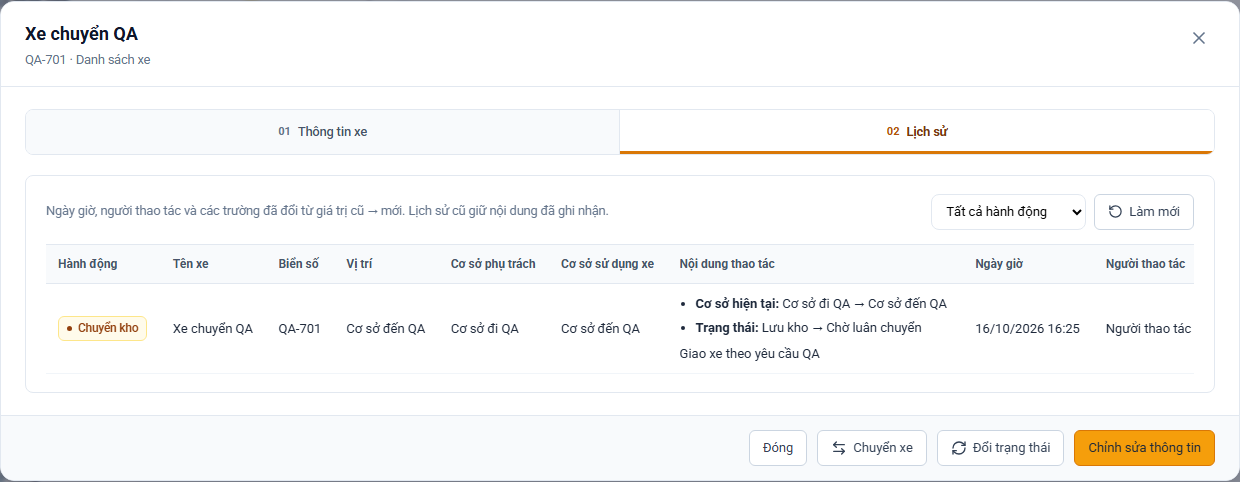
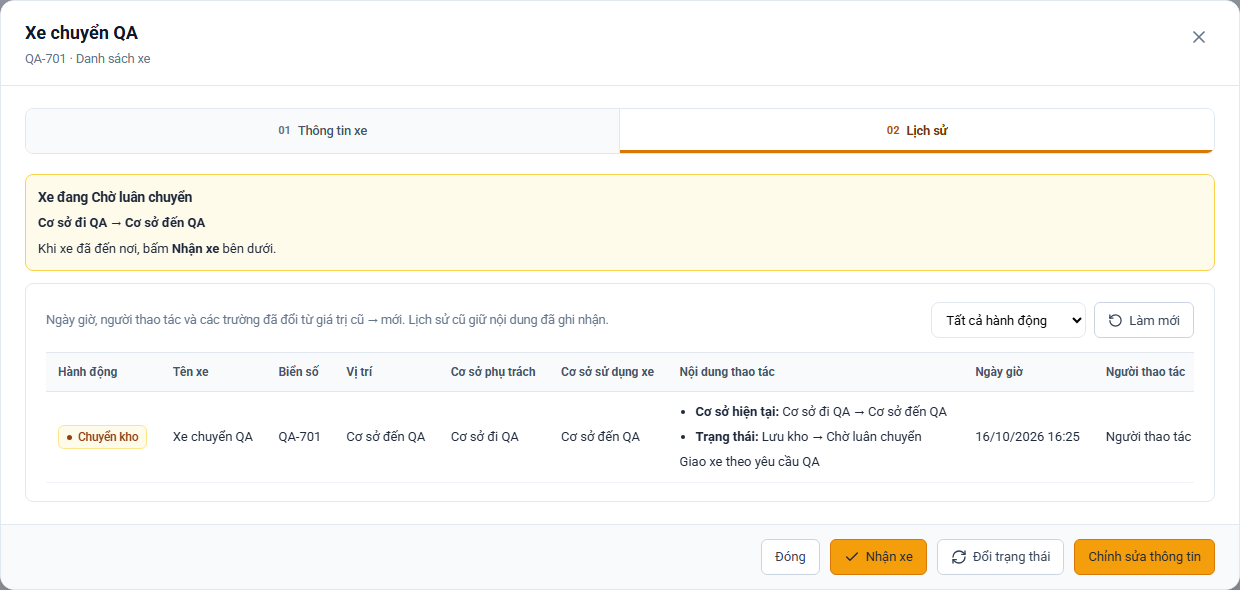
feat: add explicit vehicle receipt and transfer directions

diff --git a/src/components/management/VehicleActionDialog.tsx b/src/components/management/VehicleActionDialog.tsx
@@ -9,8 +9,9 @@ import { applyVehicleAction, loadSessionUserName, VehicleActionResult } from '@/
 import { formatDateTime } from '@/lib/formatters';
 import { Dialog } from './Dialog';
 import { useManagement } from './ManagementProvider';
+import { vehicleTransferRoute } from '@/lib/management/vehicle-history';
 
-export type VehicleActionMode = 'transfer' | 'status';
+export type VehicleActionMode = 'transfer' | 'status' | 'receive';
 const STATUS_CHOICES = [{ value: 'using', label: 'Đang thuê' }, { value: 'ready', label: 'Lưu kho' }] as const;
 const vehicleOption = (row: ManagementRow) => `${row.license || row.code} — ${row.name}`;
 
@@ -47,12 +48,14 @@ export function VehicleActionDialog({ mode, vehicle, onClose }: { mode: VehicleA
   }
   const rented = (() => { try { return JSON.parse(String(selected?.rentals_json || '[]')).length > 0; } catch { return false; } })();
   const transferBlocked = mode === 'transfer' && Boolean(selected) && currentStatus !== 'ready';
-  const title = mode === 'transfer' ? 'Chuyển xe' : 'Đổi trạng thái';
+  const receiveBlocked=mode==='receive' && (!selected||currentStatus!=='in_transit'||!selected.transfer_event_id||selected.transfer_receivable===0);
+  const title = mode === 'transfer' ? 'Chuyển xe' : mode==='receive'?'Nhận xe':'Đổi trạng thái';
 
   async function submit(event: FormEvent) {
     event.preventDefault(); if (busy.current) return;
     if (!selected) return setError('Chọn xe cần thao tác.');
     if (transferBlocked) return setError('Chỉ chuyển xe đang Lưu kho. Kiểm tra trạng thái xe rồi thao tác lại.');
+    if(receiveBlocked)return setError('Không xác định được lần chuyển xe đang chờ nhận. Nhấn Làm mới rồi kiểm tra lịch sử.');
     if (mode === 'transfer' && !storeId) return setError('Chọn cơ sở chuyển đến.');
     if (mode === 'transfer' && storeId === String(selected.store_id)) return setError('Xe đang ở cơ sở này. Chọn cơ sở khác.');
     if (mode === 'status' && status !== 'ready' && status !== 'using') return setError('Chọn trạng thái Đang thuê hoặc Lưu kho.');
@@ -63,9 +66,10 @@ export function VehicleActionDialog({ mode, vehicle, onClose }: { mode: VehicleA
     try {
       const revision=selected.vehicle_revision ? String(selected.vehicle_revision) : undefined;
       const saved = await applyVehicleAction(selected.id, mode === 'transfer' ? { action: 'transfer', to_store_id: storeId, note, revision }
+        : mode==='receive'?{action:'receive',transfer_event_id:String(selected.transfer_event_id),note,revision}
         : { action: 'status', status: status as 'ready' | 'using', beneficiary_store_id: storeId, customer_name: customer.name, customer_phone: customer.phone, customer_id_card: customer.idCard, note, revision });
-      await ensureData(saved.customer ? ['vehicles', 'customers', 'contracts'] : ['vehicles'], true).catch(() => {});
-      notify(mode === 'transfer' ? `Xe ${selected.license} chuyển sang Chờ luân chuyển tại ${stores.find(store=>String(store.id)===storeId)?.name || 'cơ sở đích'}. Đã lưu lịch sử.` : `Đã đổi trạng thái xe ${selected.license}.`);
+      await ensureData(saved.customer ? ['vehicles', 'customers', 'contracts'] : mode==='transfer'||mode==='receive'?['vehicles','stores']:['vehicles'], true).catch(() => {});
+      notify(mode === 'transfer' ? `Xe ${selected.license} chuyển sang Chờ luân chuyển tại ${stores.find(store=>String(store.id)===storeId)?.name || 'cơ sở đích'}. Đã lưu lịch sử.` : mode==='receive'?`Đã nhận xe ${selected.license} tại ${selected.transfer_to_store_name||selected.store_name}. Xe chuyển sang Lưu kho. Đã lưu lịch sử.`:`Đã đổi trạng thái xe ${selected.license}.`);
       if (saved.draft) setResult(saved); else onClose();
     } catch (cause) { setError(cause instanceof Error ? cause.message : 'Không lưu được thao tác xe.'); }
     finally { busy.current = false; setSaving(false); }
@@ -91,12 +95,18 @@ export function VehicleActionDialog({ mode, vehicle, onClose }: { mode: VehicleA
         {selected && <small>Hiện tại: {optionLabel(MANAGEMENT_CONFIG.vehicles, 'status', currentStatus)} · {String(selected.store_name || '—')}</small>}
         {rented && <small className="mg-field-error">Xe đang thuộc hợp đồng mở. Trả xe trên hợp đồng trước khi {mode === 'transfer' ? 'chuyển xe' : 'đổi trạng thái'}.</small>}
         {transferBlocked && !rented && <small className="mg-field-error">Chỉ chuyển xe đang Lưu kho.</small>}</div>
-      {mode === 'transfer' ? <>
+      {mode==='receive'?<>
+        <p className="mg-transfer-direction mg-field-wide">{selected?vehicleTransferRoute(selected):''}</p>
+        <div className="mg-field"><label htmlFor="vehicle-receive-from">Cơ sở chuyển đi</label><input id="vehicle-receive-from" value={String(selected?.transfer_from_store_name||'')} readOnly disabled/></div>
+        <div className="mg-field"><label htmlFor="vehicle-receive-to">Cơ sở nhận xe</label><input id="vehicle-receive-to" value={String(selected?.transfer_to_store_name||selected?.store_name||'')} readOnly disabled/></div>
+        <p className="mg-composer-hint mg-field-wide">Chỉ xác nhận khi xe đã đến cơ sở nhận. Xe chuyển từ Chờ luân chuyển sang Lưu kho; ngày giờ và người nhận được lưu trong Lịch sử.</p>
+        {receiveBlocked&&<p className="mg-field-error mg-field-wide" role="alert">Lần chuyển xe không còn chờ nhận hoặc thiếu thông tin. Đóng hộp thoại, nhấn Làm mới rồi kiểm tra lịch sử.</p>}
+      </>:mode === 'transfer' ? <>
         <div className="mg-field"><label htmlFor="vehicle-action-from">Cơ sở hiện tại</label><input id="vehicle-action-from" value={String(selected?.store_name || '')} readOnly disabled /></div>
         <div className="mg-field"><label htmlFor="vehicle-action-to">Chuyển đến cơ sở<span aria-hidden="true"> *</span></label>
           <select id="vehicle-action-to" value={storeId} disabled={saving} onChange={event => setStoreId(event.target.value)}>
             <option value="">Chọn cơ sở</option>{stores.filter(store => String(store.id) !== String(selected?.store_id)).map(store => <option key={store.id} value={String(store.id)}>{store.name}</option>)}</select></div>
-        <p className="mg-composer-hint mg-field-wide">Khi lưu, xe chuyển sang Chờ luân chuyển tại cơ sở đích. Khi nhận xe, dùng Đổi trạng thái → Lưu kho. Mỗi thao tác đều được ghi vào Lịch sử.</p>
+        <p className="mg-composer-hint mg-field-wide">Khi lưu, xe chuyển sang Chờ luân chuyển tại cơ sở đích. Khi xe đến nơi, bấm Nhận xe để xác nhận. Mỗi thao tác đều được ghi vào Lịch sử.</p>
       </> : <>
         <div className="mg-field"><label htmlFor="vehicle-action-status">Trạng thái<span aria-hidden="true"> *</span></label>
           <select id="vehicle-action-status" value={status} disabled={saving || !selected} onChange={event => setStatus(event.target.value)}>
@@ -118,7 +128,7 @@ export function VehicleActionDialog({ mode, vehicle, onClose }: { mode: VehicleA
         <textarea id="vehicle-action-note" value={note} maxLength={500} disabled={saving} onChange={event => setNote(event.target.value)} /></div>
     </div>{error && <p className="mg-error-message" role="alert">{error}</p>}</div>
       <div className="mg-dialog-footer"><span className="mg-form-note">Ngày giờ và người nhập được ghi tự động khi lưu.</span><button type="button" className="mg-button" disabled={saving} onClick={onClose}>Hủy</button>
-        <button type="submit" className="mg-button mg-button-primary" disabled={saving || !selected || rented || transferBlocked}>{saving ? <LoaderCircle size={16} className="mg-spin" /> : <Check size={16} />}{saving ? 'Đang lưu…' : title}</button></div>
+        <button type="submit" className="mg-button mg-button-primary" disabled={saving || !selected || rented || transferBlocked || receiveBlocked}>{saving ? <LoaderCircle size={16} className="mg-spin" /> : <Check size={16} />}{saving ? 'Đang lưu…' : mode==='receive'?'Xác nhận đã nhận xe':title}</button></div>
     </form>
   </Dialog>;
 }

diff --git a/src/lib/server/vehicle-actions.ts b/src/lib/server/vehicle-actions.ts
@@ -5,6 +5,7 @@ import { createContractDraft, customerDetails, vehicleDetails } from '@/lib/mana
 import type { ManagementRow } from '@/lib/management/types';
 import { saveDatabaseDraft } from './contract-drafts';
 import { vehicleRevision, writeVehicleAudit } from './vehicle-audit';
+import { readPendingVehicleTransfer } from './vehicle-transfers';
 
 type Client = Pick<PoolClient, 'query'>;
 export interface VehicleActionCustomer { id: number; name: string; created: boolean; matched_by: string }
@@ -12,6 +13,7 @@ export interface VehicleActionResult { id: number; event_id: number; customer?: 
 export class VehicleActionError extends Error { constructor(message: string, public status = 400) { super(message); } }
 export type VehicleActionInput = (
   | { action: 'transfer'; to_store_id: number; note: string }
+  | { action: 'receive'; transfer_event_id: number; note: string }
   | { action: 'status'; status: 'ready' | 'using'; beneficiary_store_id: number; customer_name: string; customer_phone: string; customer_id_card: string; note: string }) & { revision?: string };
 
 const text = (value: unknown, label: string, max: number) => {
@@ -32,6 +34,7 @@ export function parseVehicleAction(body: unknown): VehicleActionInput {
   let revision: string | undefined;
   try { revision = vehicleRevision(raw.revision); } catch { throw new VehicleActionError('Phiên bản thông tin xe không hợp lệ.'); }
   const note = text(raw.note, 'Ghi chú', 500);
+  if (raw.action === 'receive') return {action:'receive',transfer_event_id:storeId(raw.transfer_event_id,'lần chuyển xe cần nhận'),note,...(revision?{revision}:{})};
   if (raw.action === 'transfer') return { action: 'transfer', to_store_id: storeId(raw.to_store_id, 'cơ sở chuyển đến'), note, ...(revision ? {revision} : {}) };
   if (raw.action !== 'status') throw new VehicleActionError('Thao tác không hợp lệ.');
   if (raw.status !== 'ready' && raw.status !== 'using') throw new VehicleActionError('Chọn trạng thái Đang thuê hoặc Lưu kho.');
@@ -94,7 +97,19 @@ export async function applyVehicleAction(client: PoolClient, vehicleId: number, 
     FROM himoto.order_vehicle_details d JOIN himoto.orders o ON o.id=d.order_id
     WHERE d.vehicle_id=$1 AND d.deleted_at IS NULL AND d.completed_at IS NULL AND o.deleted_at IS NULL
       AND o.order_status IN ('renting','overdue','wait_payment','pending','deposit_contract') LIMIT 1`, [vehicleId]);
-  if (open.rowCount) throw new VehicleActionError(`Xe đang thuộc hợp đồng ${open.rows[0].code}. Trả xe trên hợp đồng trước khi ${input.action === 'transfer' ? 'chuyển xe' : 'đổi trạng thái'}.`, 409);
+  if (open.rowCount) throw new VehicleActionError(`Xe đang thuộc hợp đồng ${open.rows[0].code}. Trả xe trên hợp đồng trước khi ${input.action === 'transfer' ? 'chuyển xe' : input.action==='receive'?'nhận xe':'đổi trạng thái'}.`, 409);
+  if(input.action==='receive') {
+    if(vehicle.status!=='in_transit')throw new VehicleActionError('Xe không còn Chờ luân chuyển hoặc đã được nhận. Nhấn Làm mới để kiểm tra.',409);
+    const transfer=await readPendingVehicleTransfer(client,vehicleId);
+    if(!transfer||Number(transfer.id)!==input.transfer_event_id||Number(transfer.to_store_id)!==Number(vehicle.store_id))throw new VehicleActionError('Lần chuyển xe đã thay đổi hoặc không khớp cơ sở hiện tại. Nhấn Làm mới rồi kiểm tra lịch sử.',409);
+    if(!Number(transfer.receivable))throw new VehicleActionError('Lần chuyển xe này đã được nhận hoặc thuộc phiếu điều chuyển của hệ thống cũ. Kiểm tra lại lịch sử.',409);
+    if(!(await client.query('SELECT id FROM himoto.stores WHERE id=$1 FOR SHARE',[vehicle.store_id])).rowCount)throw new VehicleActionError('Cơ sở nhận xe không còn tồn tại. Kiểm tra lại trước khi nhận.',409);
+    await client.query("UPDATE himoto.vehicles SET status='ready',updated_at=now() WHERE id=$1",[vehicleId]);
+    const eventId=await writeVehicleAudit(client,{vehicleId,before:vehicle,after:{...vehicle,status:'ready'},actorId,
+      type:'manual_transfer_receive',fromStoreId:transfer.from_store_id,toStoreId:transfer.to_store_id,
+      routeNames:{from:transfer.from_store_name,to:transfer.to_store_name},refType:'vehicle_location_events',refId:Number(transfer.id),note:input.note});
+    return {id:vehicleId,event_id:eventId};
+  }
   const target = input.action === 'transfer' ? input.to_store_id : input.beneficiary_store_id;
   if (!(await client.query('SELECT 1 FROM himoto.stores WHERE id=$1 FOR SHARE', [target])).rowCount) throw new VehicleActionError('Cơ sở đã chọn không còn tồn tại.', 409);
   const current = String(vehicle.status) === 'rent' ? 'using' : String(vehicle.status);

diff --git a/src/components/management/VehicleDetail.tsx b/src/components/management/VehicleDetail.tsx
@@ -2,12 +2,12 @@
 
 import { ReactNode, useCallback, useEffect, useState } from 'react';
 import Link from 'next/link';
-import { ArrowLeftRight, LoaderCircle, RefreshCw, RotateCcw } from 'lucide-react';
+import { ArrowLeftRight, Check, LoaderCircle, RefreshCw, RotateCcw } from 'lucide-react';
 import { Dialog } from './Dialog';
 import type { VehicleActionMode } from './VehicleActionDialog';
 import { useManagement } from './ManagementProvider';
 import { ContractSectionTabs } from '@/components/contracts/ContractSectionTabs';
-import { loadVehicleHistory, VEHICLE_EVENT_ACTIONS, VehicleEvent, VehicleEventAction } from '@/lib/management/vehicle-history';
+import { loadVehicleHistory, VEHICLE_EVENT_ACTIONS, VehicleEvent, VehicleEventAction, vehicleEventRoute, vehicleTransferRoute } from '@/lib/management/vehicle-history';
 import { optionLabel, statusTone } from '@/lib/management/config';
 import { formatValue } from '@/lib/management/table-utils';
 import { ManagementConfig, ManagementRow } from '@/lib/management/types';
@@ -55,6 +55,7 @@ export function VehicleDetail({ row, config, canEdit, onEdit, onClose, onAction 
   return <Dialog title={String(row.name)} subtitle={`${row.license || row.code} · ${config.title}`} className="mg-customer-detail mg-vehicle-detail" onClose={onClose}>
     <div className="mg-dialog-body">
       <ContractSectionTabs prefix="vehicle-detail" sections={SECTIONS} active={section} onChange={setSection} />
+      {row.status==='in_transit'&&<div className="mg-transfer-pending" role="status"><strong>Xe đang Chờ luân chuyển</strong><p className="mg-transfer-direction">{vehicleTransferRoute(row)||'Chưa có thông tin cơ sở chuyển đi. Kiểm tra tab Lịch sử.'}</p><p>Khi xe đã đến nơi, bấm <strong>Nhận xe</strong> bên dưới.</p></div>}
       {panel('details', <>
         <span className={`mg-status mg-status-${statusTone(row.status)}`}><span />{optionLabel(config, 'status', row.status)}</span>
         {row.location_status && <span className={`mg-status mg-status-${statusTone(String(row.location_status))}`}><span />{optionLabel(config, 'location_status', String(row.location_status))}</span>}
@@ -72,7 +73,8 @@ export function VehicleDetail({ row, config, canEdit, onEdit, onClose, onAction 
         {loading && !events && <p className="mg-contract-history-state" role="status"><LoaderCircle size={16} className="mg-spin" /> Đang tải lịch sử xe…</p>}
         {error && <p className="mg-contract-history-state mg-field-error" role="alert">{error}</p>}
         {events && shown.length > 0 && <div className="mg-mobile-records"><ul className="mg-mobile-card-list">{shown.map(event => <MobileDetailsCard key={event.key} title={event.label}
-          summary={<><span>{formatDateTime(event.at || '')}</span><span>{dash(event.location)}</span></>}
+          summary={<><span>{formatDateTime(event.at || '')}</span>{!vehicleEventRoute(event)&&<span>{dash(event.location)}</span>}</>}
+          preview={vehicleEventRoute(event)}
           fields={[["Tên xe", dash(event.vehicle_name)], ["Biển số", dash(event.license)], ["Vị trí", dash(event.location)], ["Cơ sở phụ trách", dash(event.responsible_store)], ["Cơ sở sử dụng xe", dash(event.beneficiary_store)],
             ["Nội dung thao tác", content(event)], ["Ngày giờ", formatDateTime(event.at || '')], ["Người thao tác", dash(event.actor)]]} />)}</ul></div>}
         {events && (shown.length ? <div className="mg-table-scroll mg-desktop-records"><table className="mg-table mg-vehicle-history-table">
@@ -91,8 +93,9 @@ export function VehicleDetail({ row, config, canEdit, onEdit, onClose, onAction 
       </>)}
     </div>
     <div className="mg-dialog-footer"><button type="button" className="mg-button" onClick={onClose}>Đóng</button>
+      {canEdit&&source==='api'&&row.status==='in_transit'&&<button type="button" className="mg-button mg-button-primary" onClick={()=>onAction('receive')}><Check size={16}/>Nhận xe</button>}
       {canEdit && source === 'api' && <>
-        <button type="button" className="mg-button" onClick={() => onAction('transfer')}><ArrowLeftRight size={16} />Chuyển xe</button>
+        {row.status!=='in_transit'&&<button type="button" className="mg-button" onClick={() => onAction('transfer')}><ArrowLeftRight size={16} />Chuyển xe</button>}
         <button type="button" className="mg-button" onClick={() => onAction('status')}><RefreshCw size={16} />Đổi trạng thái</button></>}
       {canEdit && <button type="button" className="mg-button mg-button-primary" onClick={onEdit}>Chỉnh sửa thông tin</button>}</div>
   </Dialog>;

diff --git a/src/components/management/ManagementMobileList.tsx b/src/components/management/ManagementMobileList.tsx
@@ -5,6 +5,7 @@ import { ManagementConfig, ManagementKind, ManagementRow } from '@/lib/managemen
 import { optionLabel, statusTone } from '@/lib/management/config';
 import { formatValue } from '@/lib/management/table-utils';
 import { RowAction, RowActionsMenu } from './RowActionsMenu';
+import { vehicleTransferRoute } from '@/lib/management/vehicle-history';
 
 const SUMMARY_KEYS: Record<ManagementKind, string[]> = {
   vehicles: ['overdue_days', 'license', 'store_name', 'daily_price'],
@@ -55,12 +56,13 @@ export function ManagementMobileList({ config, rows, sortKey, sortDirection, onS
       : <ul className="mg-mobile-card-list" aria-label={config.title}>{rows.map(row => {
         const title = String((config.kind === 'contracts' ? row.customer_name : row.name) || row.code || `#${row.id}`);
         const label = String((config.kind === 'vehicles' ? row.license : row.code) || row.code || title);
+        const receive=config.kind==='vehicles'&&row.status==='in_transit'?actions(row).find(item=>item.key==='receive'):undefined;
         const summary = SUMMARY_KEYS[config.kind].filter(key => row[key] !== undefined && row[key] !== '').map(key => {
           const column = config.columns.find(item => item.key === key);
           const value = optionLabel(config, key, formatValue(row[key], column?.format));
           return { key, label: column?.label || (key === 'customer_phone' ? 'Số điện thoại' : 'Biển số'), value };
         });
-        return <li key={row.id} className={`mg-mobile-record-card${selectedIds?.has(row.id) ? ' is-selected' : ''}`}>
+        return <li key={row.id} className={`mg-mobile-record-card${receive?' mg-mobile-card-receive':''}${selectedIds?.has(row.id) ? ' is-selected' : ''}`}>
           {selectable && <label className="mg-mobile-card-select"><input type="checkbox" aria-label={`Chọn ${label}`} checked={Boolean(selectedIds?.has(row.id))}
             onChange={event => onSelectionChange?.([row.id], event.target.checked)} /></label>}
           <button type="button" className="mg-mobile-card-main" aria-label={`Xem chi tiết ${title}`} onClick={() => onView(row)}>
@@ -74,7 +76,9 @@ export function ManagementMobileList({ config, rows, sortKey, sortDirection, onS
               {config.kind === 'vehicles' && row.location_status && <span className={`mg-status mg-status-${statusTone(String(row.location_status))}`}><span />{optionLabel(config, 'location_status', String(row.location_status))}</span>}
               {summary[2] && <span className="mg-mobile-card-extra" title={`${summary[2].label}: ${summary[2].value}`}>{summary[2].value}{summary[3] && ` · ${summary[3].value}`}</span>}
             </span>
+            {receive&&vehicleTransferRoute(row)&&<span className="mg-transfer-direction">{vehicleTransferRoute(row)}</span>}
           </button>
+          {receive&&<button type="button" className="mg-button mg-button-primary mg-mobile-receive" disabled={busyId===row.id} onClick={receive.onSelect}>Nhận xe</button>}
           <div className="mg-mobile-card-actions"><RowActionsMenu label={`Thao tác ${label}`} actions={actions(row)} busy={busyId === row.id} /></div>
         </li>;
       })}</ul>}

diff --git a/src/components/management/DataTable.tsx b/src/components/management/DataTable.tsx
@@ -36,7 +36,7 @@ interface Props {
   onVehicleChange?: (row: ManagementRow) => void;
   onBatteryRent?: (row: ManagementRow) => void;
   onClone?: (row: ManagementRow) => void;
-  onVehicleAction?: (row: ManagementRow, mode: 'transfer' | 'status') => void;
+  onVehicleAction?: (row: ManagementRow, mode: 'transfer' | 'status' | 'receive') => void;
   cloningId?: number | null;
   canEditContract?: boolean;
   canEditDraft?: boolean;
@@ -66,6 +66,7 @@ export function DataTable({ config, columns, rows, offset, sortKey, sortDirectio
       { key: 'transfer', label: 'Chuyển xe', icon: <ArrowLeftRight size={16} />, onSelect: () => onVehicleAction(row, 'transfer') },
       { key: 'status', label: 'Đổi trạng thái', icon: <RefreshCw size={16} />, onSelect: () => onVehicleAction(row, 'status') },
     );
+    if(config.kind==='vehicles'&&row.status==='in_transit'&&onVehicleAction)actions.splice(1,0,{key:'receive',label:'Nhận xe',icon:<Bike size={16}/>,onSelect:()=>onVehicleAction(row,'receive')});
     if (isContract && onPrint) actions.push({ key: 'print', label: 'Điền và in hợp đồng', icon: <Printer size={16} />, onSelect: () => onPrint(row) });
     if (isContract && onPayment && !['draft', 'cancelled'].includes(row.status)) actions.push({ key: 'payment', label: 'Thanh toán', icon: <Wallet size={16} />, onSelect: () => onPayment(row) });
     if (isContract && onHandover && row.status === 'deposit_contract') actions.push({key:'handover',label:'Giao xe',icon:<Bike size={16}/>,onSelect:()=>onHandover(row)});
@@ -104,6 +105,7 @@ export function DataTable({ config, columns, rows, offset, sortKey, sortDirectio
         : rows.map((row, index) => <tr key={row.id} className={selectedIds?.has(row.id) ? 'is-selected' : undefined}>{selectable && <td className="mg-select-column"><input type="checkbox" aria-label={`Chọn ${row.code || row.name || `#${row.id}`}`}
           checked={Boolean(selectedIds?.has(row.id))} onChange={event => onSelectionChange?.([row.id], event.target.checked)} /></td>}<td className="mg-index">{offset + index + 1}</td>{columns.map(column => <td key={column.key} className={`${column.align === 'right' ? 'mg-align-right' : ''}${column.key === 'code' ? ' mg-record-code' : ''}`}><Cell row={row} column={column} config={config} /></td>)}
           <td className="mg-actions-column"><div className="mg-row-actions">
+            {config.kind==='vehicles'&&row.status==='in_transit'&&onVehicleAction&&<button type="button" className="mg-button mg-button-primary" onClick={()=>onVehicleAction(row,'receive')}>Nhận xe</button>}
             <RowActionsMenu label={`Thao tác ${row.license || row.code || row.name || ''}`.trim()} actions={rowActions(row)} busy={cloningId === row.id || blacklistBusyId === row.id} />
           </div></td></tr>)}</tbody>
     </table>

diff --git a/src/lib/server/vehicle-audit.ts b/src/lib/server/vehicle-audit.ts
@@ -33,18 +33,18 @@ export function vehicleFieldChanges(before: RecordValues, after: RecordValues, s
 /** Called in the same transaction as the vehicle write. An audit failure must roll back the operation. */
 export async function writeVehicleAudit(client: Pick<PoolClient, 'query'>, event: {
   vehicleId: number; before: RecordValues; after: RecordValues; actorId: number; type: string;
-  toStoreId?: unknown; refType?: string | null; refId?: number | null; note: string;
+  fromStoreId?: unknown; toStoreId?: unknown; routeNames?: {from:string;to:string}; refType?: string | null; refId?: number | null; note: string;
   customer?: { name: string; phone: string; idCard: string };
 }) {
-  const from = event.before.store_id, to = event.toStoreId ?? event.after.store_id;
+  const from = event.fromStoreId ?? event.before.store_id, to = event.toStoreId ?? event.after.store_id;
   const ids = [...new Set([from, to, event.before.beneficiary_store_id, event.after.beneficiary_store_id].filter(value => value != null).map(String))];
   const stores = await client.query('SELECT id,store_name FROM himoto.stores WHERE id=ANY($1::bigint[]) ORDER BY id FOR SHARE', [ids]);
   const names = new Map<string, string>(stores.rows.map(row => [String(row.id), String(row.store_name)]));
   const user = await client.query('SELECT name FROM himoto.users WHERE id=$1', [event.actorId]);
   if (!user.rowCount) throw new Error('Không xác định được người thao tác xe.');
   const snapshot = { version: 1, actor_id: event.actorId, actor_name: String(user.rows[0].name || `Tài khoản #${event.actorId}`),
-    vehicle_name: text(event.after.name), license: text(event.after.license), from_store_name: names.get(String(from)) || '',
-    to_store_name: names.get(String(to)) || '', changes: vehicleFieldChanges(event.before, event.after, names) };
+    vehicle_name: text(event.after.name), license: text(event.after.license), from_store_name: event.routeNames?.from ?? names.get(String(from)) ?? '',
+    to_store_name: event.routeNames?.to ?? names.get(String(to)) ?? '', changes: vehicleFieldChanges(event.before, event.after, names) };
   const result = await client.query(`INSERT INTO himoto.vehicle_location_events
     (vehicle_id,from_store_id,to_store_id,event_type,ref_type,ref_id,odometer,notes,customer_name,customer_phone,customer_id_card,created_by,created_at,updated_at,audit_snapshot)
     VALUES ($1,$2,$3,$4,$5,$6,$7,NULLIF($8,''),NULLIF($9,''),NULLIF($10,''),NULLIF($11,''),$12,

diff --git a/src/app/api/auth/[...path]/route.ts b/src/app/api/auth/[...path]/route.ts
@@ -11,6 +11,7 @@ import { CUSTOMER_PROFILE_SQL, CUSTOMER_SEARCH_SQL } from '@/lib/server/customer
 import { CASHBOOK_LIST_SQL, CashbookQueryError, listCashbook } from '@/lib/server/cashbook-list';
 import { ManagementTableError, readManagementTable } from '@/lib/server/management-table';
 import { PageSummaryError, readOperationsSummary, readSalesSummary } from '@/lib/server/page-summaries';
+import { VEHICLE_TRANSFER_JOIN_SQL } from '@/lib/server/vehicle-transfers';
 
 export const runtime = 'nodejs';
 
@@ -34,12 +35,16 @@ const listQueries: Record<string, QueryConfig> = {
   'vehicle/vehicles': {
     sql: `SELECT v.id, v.name, v.brand, v.type, v.year, v.status, v.license, v.odometer, NULL::numeric AS daily_price, NULL::numeric AS monthly_price,
                  v.color, v.chassis, v.engine, v.store_id, v.current_store_id, s.store_name, v.xmin::text AS vehicle_revision,
+                 pending_transfer.id AS transfer_event_id,pending_transfer.from_store_id AS transfer_from_store_id,
+                 pending_transfer.to_store_id AS transfer_to_store_id,pending_transfer.from_store_name AS transfer_from_store_name,
+                 pending_transfer.to_store_name AS transfer_to_store_name,pending_transfer.receivable AS transfer_receivable,
                  r.rentals, b.beneficiary_store_id, bs.store_name AS beneficiary_store_name,
                  gps.has_device AS gps_has_device,
                  gps.normalized_status AS gps_normalized_status,
                  gps.last_at AS gps_last_at
           FROM himoto.vehicles v
           LEFT JOIN himoto.stores s ON s.id = COALESCE(v.current_store_id, v.store_id)
+          ${VEHICLE_TRANSFER_JOIN_SQL}
           LEFT JOIN LATERAL (
             SELECT json_agg(json_build_object('order_id', o.id,
                      'code', COALESCE(NULLIF(o.contract_number, ''), NULLIF(o.draft_reference, ''), '#' || o.id::text),

diff --git a/src/components/management/MobileDetailsCard.tsx b/src/components/management/MobileDetailsCard.tsx
@@ -8,16 +8,17 @@ interface Props {
   title: string;
   summary: ReactNode;
   fields: readonly (readonly [string, ReactNode])[];
+  preview?: ReactNode;
   actions?: RowAction[];
   selection?: { label: string; checked: boolean; onChange: (checked: boolean) => void };
 }
 
-export function MobileDetailsCard({ title, summary, fields, actions = [], selection }: Props) {
+export function MobileDetailsCard({ title, summary, fields, preview, actions = [], selection }: Props) {
   const detail = useRef<HTMLDetailsElement>(null);
   return <li className={`mg-mobile-record-card${selection?.checked ? ' is-selected' : ''}`}>
     {selection && <label className="mg-mobile-card-select"><input type="checkbox" aria-label={selection.label} checked={selection.checked} onChange={event => selection.onChange(event.target.checked)} /></label>}
     <details ref={detail} className="mg-mobile-card-detail">
-      <summary className="mg-mobile-card-main"><span className="mg-mobile-card-title">{title}</span><span className="mg-mobile-card-summary">{summary}</span></summary>
+      <summary className="mg-mobile-card-main"><span className="mg-mobile-card-title">{title}</span><span className="mg-mobile-card-summary">{summary}</span>{preview&&<span className="mg-transfer-direction">{preview}</span>}</summary>
       <dl className="mg-mobile-detail-fields">{fields.map(([label, value]) => <div key={label}><dt>{label}</dt><dd>{value}</dd></div>)}</dl>
     </details>
     <div className="mg-mobile-card-actions"><RowActionsMenu label={`Thao tác ${title}`} actions={[

diff --git a/src/styles/management.css b/src/styles/management.css
@@ -3479,6 +3479,16 @@
 .mg-vehicle-audit-content ul { margin: 0; padding-left: 16px; }
 .mg-vehicle-audit-content li + li { margin-top: 5px; }
 .mg-vehicle-audit-content p { margin: 6px 0 0; }
+.mg-transfer-direction { display: block; margin: 0; color: var(--mg-slate-800); font-size: 13px; font-weight: 600; line-height: 1.5; white-space: normal; overflow-wrap: anywhere; }
+.mg-transfer-pending { margin: 12px 0; padding: 12px; border: 1px solid var(--mg-brand-300); border-radius: 8px; background: var(--mg-brand-50); }
+.mg-transfer-pending p { margin: 6px 0 0; font-size: 13px; }
+@media (max-width: 767px) {
+  .mg-mobile-record-card.mg-mobile-card-receive { display: grid; grid-template-columns: 44px minmax(0,1fr) 44px; }
+  .mg-mobile-card-receive > .mg-mobile-card-select { grid-column: 1; grid-row: 1; }
+  .mg-mobile-card-receive > .mg-mobile-card-main { grid-column: 2; grid-row: 1; padding-left: 0; }
+  .mg-mobile-card-receive > .mg-mobile-card-actions { grid-column: 3; grid-row: 1; }
+  .mg-mobile-card-receive > .mg-mobile-receive { grid-column: 2; grid-row: 2; min-height: 44px; margin: 0 0 12px; justify-content: center; }
+}
 .mg-vehicle-history-actions { display: flex; gap: 8px; align-items: center; }
 .mg-vehicle-history-actions select { height: 36px; padding: 0 10px; border: 1px solid var(--mg-line); border-radius: 8px; background: #fff; font: inherit; font-size: 13px; }
 .mg-document-requirements { margin: 16px 0; padding: 12px; border: 1px solid var(--mg-line); border-radius: 10px; }

diff --git a/src/lib/management/repository.ts b/src/lib/management/repository.ts
@@ -111,6 +111,8 @@ export function mapApiRow(kind: ManagementKind, raw: ApiRow): ManagementRow {
     customer_revision: text(raw.customer_revision), contract_count: number(raw.contract_count), status: ['blacklist', 'bad_debt'].includes(base.status) ? 'blacklist' : ['draft', '0'].includes(base.status) ? 'draft' : raw.warning || raw.warning_note ? 'warning' :
       (({ '1': 'active', '0': 'draft' } as Record<string, string>)[base.status] || base.status) };
   if (kind === 'vehicles') return { ...base, license: text(raw.license), brand: text(raw.brand), type: text(raw.type) === 'electric' ? 'xe_dien' : text(raw.type), vehicle_revision: text(raw.vehicle_revision),
+    transfer_event_id:number(raw.transfer_event_id),transfer_from_store_id:number(raw.transfer_from_store_id),transfer_to_store_id:number(raw.transfer_to_store_id),
+    transfer_from_store_name:text(raw.transfer_from_store_name),transfer_to_store_name:text(raw.transfer_to_store_name),transfer_receivable:number(raw.transfer_receivable),
     color: text(raw.color), chassis: text(raw.chassis), engine: text(raw.engine),
     rentals_json: Array.isArray(raw.rentals) ? JSON.stringify(raw.rentals) : '',
     beneficiary_store_id: number(raw.beneficiary_store_id ?? raw.current_store_id ?? raw.store_id), beneficiary_store_name: text(raw.beneficiary_store_name || raw.store_name),

diff --git a/src/lib/server/vehicle-transfers.ts b/src/lib/server/vehicle-transfers.ts
@@ -1,0 +1,22 @@
+import 'server-only';
+import type { PoolClient } from 'pg';
+
+const SELECT_TRANSFER = `SELECT e.id,e.event_type,e.from_store_id,e.to_store_id,
+  COALESCE(NULLIF(e.audit_snapshot->>'from_store_name',''),fs.store_name,'') AS from_store_name,
+  COALESCE(NULLIF(e.audit_snapshot->>'to_store_name',''),ts.store_name,'') AS to_store_name,
+  CASE WHEN e.event_type='manual_transfer' AND NOT EXISTS (
+    SELECT 1 FROM himoto.vehicle_location_events r WHERE r.vehicle_id=e.vehicle_id
+      AND r.event_type='manual_transfer_receive' AND r.ref_type='vehicle_location_events' AND r.ref_id=e.id
+  ) THEN 1 ELSE 0 END AS receivable
+  FROM himoto.vehicle_location_events e
+  LEFT JOIN himoto.stores fs ON fs.id=e.from_store_id LEFT JOIN himoto.stores ts ON ts.id=e.to_store_id`;
+
+export const VEHICLE_TRANSFER_JOIN_SQL = `LEFT JOIN LATERAL (
+  ${SELECT_TRANSFER} WHERE e.vehicle_id=v.id AND e.event_type IN ('manual_transfer','transfer_dispatch')
+  ORDER BY e.id DESC LIMIT 1
+) pending_transfer ON v.status='in_transit'`;
+
+export async function readPendingVehicleTransfer(client:Pick<PoolClient,'query'>,vehicleId:number) {
+  return (await client.query(`${SELECT_TRANSFER} WHERE e.vehicle_id=$1 AND e.event_type IN ('manual_transfer','transfer_dispatch')
+    ORDER BY e.id DESC LIMIT 1 FOR UPDATE OF e`,[vehicleId])).rows[0];
+}

diff --git a/src/lib/server/vehicle-history.ts b/src/lib/server/vehicle-history.ts
@@ -12,7 +12,7 @@ const iso = (value: unknown) => value instanceof Date ? value.toISOString() : va
 const text = (value: unknown) => value == null ? '' : String(value).trim();
 const statusLabel = (value: string) => VEHICLE_STATUSES.find(option => option.value === value)?.label || value;
 const jsonArray = (path: string) => `jsonb_array_elements(CASE WHEN jsonb_typeof(o.draft_payload::jsonb #> '${path}')='array' THEN o.draft_payload::jsonb #> '${path}' ELSE '[]'::jsonb END)`;
-const TRANSFER_LABELS: Record<string, string> = { transfer_dispatch: 'Xuất chuyển kho', transfer_receive: 'Nhận chuyển kho' };
+const TRANSFER_LABELS: Record<string, string> = { transfer_dispatch: 'Xuất chuyển kho', transfer_receive: 'Nhận chuyển kho',manual_transfer_receive:'Nhận xe' };
 const STATUS_ACTION: Record<string, [VehicleEventAction, string]> = { repairing: ['repair', 'Sửa chữa / bảo dưỡng'], broken: ['repair', 'Báo hỏng'] };
 
 export async function readVehicleHistory(client: Database, vehicleId: number): Promise<VehicleEvent[]> {
